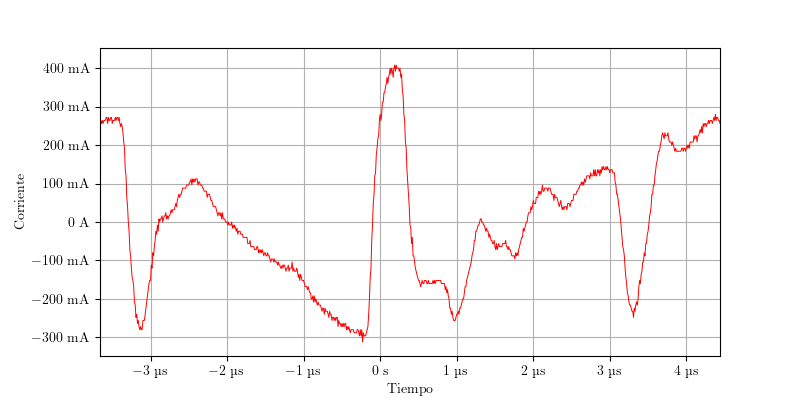
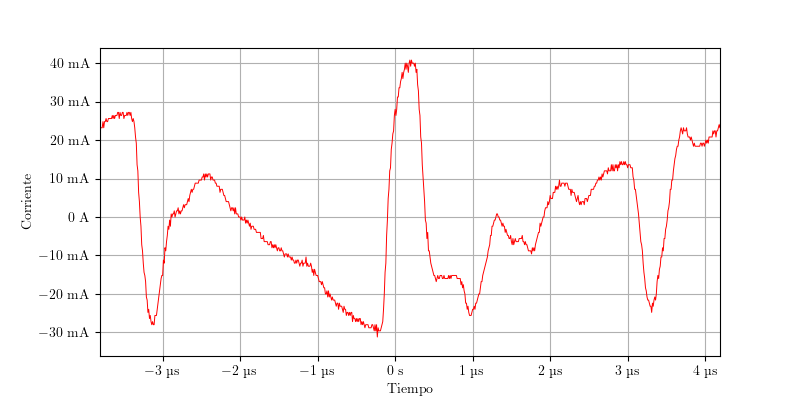
Co-authored-by: nicoelcapo98 <nicoelcapo98@users.noreply.github.com>

diff --git a/sections/simulaciones_prototipo.tex b/sections/simulaciones_prototipo.tex
@@ -9,33 +9,34 @@ Condiciones de simulación y ensayo:
     \item Resistencia de carga: $R=88.6\Omega$
 \end{itemize}
  
-% % 1) Tensión de salida en el colector del TL494
+% % 1) Tensión de salida en el colector del TL494 <<< DONE
 
 % Se verifica que el ciclo de trabajo es de $D=0.4$ y la frecuencia de conmutación es de aproximadamente $f=125kHz$. 
 % Su amplitud se reduce considerablemente de los $12V$ que poseía sin la carga del convertidor a $8V$ con el mismo acoplado. 
+% La forma de onda presenta una leve deformación respecto a la señal sin carga. 
 
-% % 2) Tensión en el capacitor Ct <<< N/A
+% % 2) Tensión en el capacitor Ct <<< N/A <<< DONE
 
 % Se observa una disminución en la frecuencia de la forma de onda a aproximadamente $f=112kHz$. 
 % El prototipo presenta una oscilación no deseada de $f_{osc}=1.25MHz$, 
 % la cual estará presente en muchas de las formas de onda que se analizarán a continuación. 
 
-% % 3) Tensión de salida de la etapa de ganancia de corriente
+% % 3) Tensión de salida de la etapa de ganancia de corriente <<< DONE
 
 % Dado que la etapa posee ganancia de tensión unitaria, su forma de onda es aproximadamente igual a la tensión de salida del TL494. 
 % Las oscilaciones fueron eliminadas mediante la red snubber. 
 
-% % 4) Tensión en el primario del transformador del driver
+% % 4) Tensión en el primario del transformador del driver <<< DONE
 
 % La amplitud y la forma de onda de la señal del prototipo coinciden respecto a la simulación. 
 % Se observan unos picos en los flancos de subida y de bajada. 
 
-% % 5) Tensión en el secundario del transformador del driver
+% % 5) Tensión en el secundario del transformador del driver <<< DONE
 
 % La amplitud y la forma de onda de la señal del prototipo coinciden respecto a la simulación. 
 % Se observa un pico en el flanco de bajada. 
 
-% % 6) Corriente en el primario del transformador del driver
+% % 6) Corriente en el primario del transformador del driver <<< DONE
 
 % La forma de onda del prototipo está deformada y posee levemente mayor amplitud. 
 
@@ -136,29 +137,30 @@ Condiciones de simulación y ensayo:
 \subsection{Generador de señal PWM}
 
 No se realizarán comparaciones ya que su circuito no fue simulado debido a la ausencia de un correcto modelo del TL494.
-El mismo fue implementado en una protoboard y sus formas de onda más importantes se comparan con las indicadas en la hoja de datos del fabricante.
+El mismo fue implementado primero en una protoboard y luego en un circuito impreso.
+Sus formas de onda más importantes se compararán con las indicadas en la hoja de datos del fabricante.
 
-En la figura \ref{fig:osc_pwm_vout_disconnected} se muestra la forma de onda de la tensión de salida de la etapa de ganancia de corriente.
-Esta debería ser una señal PWM con un período de $8\mu s$ y un ancho de pulso de aproximadamente 40\%
+En la figura \ref{fig:osc_pwm_vout_disconnected} se observa la tensión a la salida del TL494 medida del prototipo.
 
 \begin{figure}[H]
     \centering
     \includegraphics[width=0.8\textwidth]{images/capturas-osciloscopio/17-11-2022/1.png}
-    \caption{Tensión a la salida de la etapa de ganancia de corriente}
+    \caption{Tensión a la salida del TL494}
     \label{fig:osc_pwm_vout_disconnected}
 \end{figure}
 
-%Se puede observar una tensión de continua de aproximadamente $1.5V$ durante la etapa de apagado del PWM, la cual se debe al capacitor de desacople del circuito primario del driver.
-
-%Si se compara la figura \ref{fig:osc_pwm_vout_disconnected} con la \ref{fig:osc_pwm_vout_connected}, la cual muestra la misma forma de onda pero con la fuente de tensión de 36V conectada, se puede observar que la forma de onda es similar, pero se presenta una oscilación de alta frecuencia durante el ciclo de apagado de la señal PWM. Esta oscilación es tratada en la sección \ref{subsec:oscilaciones}.
-Se puede observar que la señal cumple con los requisitos de frecuencia y ancho de pulso.
+% Se verifica que el ciclo de trabajo es de $D=0.4$ y la frecuencia de conmutación es de aproximadamente $f=125kHz$. 
+% Su amplitud se reduce considerablemente de los $12V$ que poseía sin la carga del convertidor a $8V$ con el mismo acoplado. 
+% La forma de onda presenta una leve deformación respecto a la señal sin carga. <<< Comparando con otras formas de onda, esta está casi identica
+Se puede observar que la señal cumple con los requisitos de frecuencia ($f=125kHz$) y ancho de pulso ($D=0.4$).
+La amplitud de la señal es de $8V$, lo cual es menor a la señal sin carga ($12V$).
 Durante la implementación se presentaron oscilaciones de alta frecuencia durante el ciclo de apagado de la señal PWM, las cuales son tratadas en la sección \ref{subsec:oscilaciones}.
 En la figura \ref{fig:sim:osc_pwm_vout} se muestra la misma forma de onda simulada en LTspice.
 
 \begin{figure}[H]
     \centering
     \includegraphics[width=\textwidth]{images/sim/3.pdf}
-    \caption{Simulación de la tensión a la salida de la etapa de ganancia de corriente}
+    \caption{Simulación de la tensión a la salida del TL494}
     \label{fig:sim:osc_pwm_vout}
 \end{figure}
 
@@ -179,6 +181,10 @@ En las figuras \ref{fig:ct_v} y \ref{fig:dtc_v} se muestran las tensiones en el 
     \caption{Tensión a la salida del pin DTC del TL494} %COMPLETAR
     \label{fig:dtc_v}
 \end{figure}
+
+Se observa una disminución en la frecuencia de la forma de onda a aproximadamente $f=112kHz$. 
+En esta señal se observa mejor la oscilación no deseada de $f_{osc}=1.25MHz$, 
+la cual estará presente en muchas de las formas de onda que se analizarán a continuación. 
 
 % 1) Señal PWM
 
@@ -217,6 +223,28 @@ En las figuras \ref{fig:ct_v} y \ref{fig:dtc_v} se muestran las tensiones en el 
 % \end{figure}
 
 % Puede observarse que las oscilaciones aumentan. %WHAT?
+
+En la figura \ref{fig:osc_pwm_vout_disconnected} se muestra la forma de onda de la tensión de salida de la etapa de ganancia de corriente.
+Esta debería ser una señal PWM con un período de $8\mu s$ y un ancho de pulso de aproximadamente 40\%.
+
+% Dado que la etapa posee ganancia de tensión unitaria, su forma de onda es aproximadamente igual a la tensión de salida del TL494. 
+% Las oscilaciones fueron eliminadas mediante la red snubber. 
+
+\begin{figure}[H]
+    \centering
+    \includegraphics[width=0.8\textwidth]{images/capturas-osciloscopio/17-11-2022/3.png}
+    \caption{Tensión a la salida de la etapa de ganancia de corriente}
+    \label{fig:osc_pwm_vout_disconnected}
+\end{figure}
+
+\begin{figure}[H]
+    \centering
+    \includegraphics[width=\textwidth]{images/sim/3.pdf}
+    \caption{Simulación de la tensión a la salida de la etapa de ganancia de corriente}
+    \label{fig:sim:osc_pwm_vout}
+\end{figure}
+
+Se observa una mejora considerable en la forma de onda de la señal, incluso dando mejores resultados que el simulador. %Porque estamos re masa.
 
 La función más importante de esta etapa es la de mejorar la forma de onda de la señal PWM, que al comparar las figuras \ref{fig:osc_pwm_vout_disconnected} y \ref{fig:pwm_vout_sin_bjt} se puede observar que se ha mejorado considerablemente.
 
@@ -292,6 +320,9 @@ A continuación se presentan formas de ondas variadas del driver, comparándolas
     \label{fig:sim:4}
 \end{figure}
 
+La amplitud y la forma de onda de la señal del prototipo coinciden respecto a la simulación. 
+Se observan unos picos en los flancos de subida y de bajada. 
+
 \begin{figure}[H]
     \centering
     \includegraphics[width=0.9\textwidth]{images/capturas-osciloscopio/17-11-2022/9.png}
@@ -305,6 +336,44 @@ A continuación se presentan formas de ondas variadas del driver, comparándolas
     \caption{Simulación de la tensión en el secundario del transformador del driver}
     \label{fig:sim:5}
 \end{figure}
+
+Para el caso del secundario, las formas de onda también coinciden. 
+Se observa un pico solo en el flanco de bajada.
+
+En las figuras \ref{fig:osc:11} y \ref{fig:sim:6} se muestran la forma de onda de la corriente por el primario del transformador del driver junto con su simulación.
+
+\begin{figure}[H]
+    \centering
+    \includegraphics[width=\textwidth]{images/capturas-osciloscopio/17-11-2022/11.png}
+    \caption{Corriente por el primario del transformador del driver}
+    \label{fig:osc:11}
+\end{figure}
+
+\begin{figure}[H]
+    \centering
+    \includegraphics[width=\textwidth]{images/sim/6.pdf}
+    \caption{Simulación de la corriente por el primario del transformador del driver}
+    \label{fig:sim:6}
+\end{figure}
+
+La forma de onda del prototipo presenta una deformación y posee levemente mayor amplitud. 
+
+\begin{figure}[H]
+    \centering
+    \includegraphics[width=\textwidth]{images/capturas-osciloscopio/17-11-2022/13.png}
+    \caption{Corriente por la resistencia entre \textit{gate} y \textit{source} del MOSFET de lado alto}
+    \label{fig:osc:13}
+\end{figure}
+
+\begin{figure}[H]
+    \centering
+    \includegraphics[width=\textwidth]{images/sim/7.pdf}
+    \caption{Simulación de la corriente por la resistencia $R_{gs}$}
+    \label{fig:sim:7}
+\end{figure}
+
+La amplitud y la forma de onda de la señal del prototipo coinciden respecto a la simulación. 
+Presenta la oscilación de $f_{osc}=1.25MHz$. 
 
 % 2) Tensión Gate del MOSFET high side % Sería vout del driver?
 % DONE

diff --git a/sections/bitacora_publica.tex b/sections/bitacora_publica.tex
@@ -10,3 +10,46 @@ La amplitud de la forma de onda PWM disminuye al aumentar el ciclo de trabajo co
 Dado que la carga que genera el convertidor sobre el TL494 es muy alta, sin una etapa de ganancia de corriente, la forma de onda PWM 
 se distorsionaba y disminuía notablemente su amplitud, lo que causaba que los MOSFETs no se saturaran y aumentaran demasiado su temperatura.
 Los resultados obtenidos con la inclusión de esta etapa fueron una mejora en la forma de onda de la señal PWM y un incremento notorio en su amplitud.
+
+Las oscilaciones de alta frecuencia (superior a 125kHz) observadas en las formas de onda se pueden deber a cualquier tanque LC. 
+
+Se evidenció un problema con la tierra de la PCB ya que al realizar las mediciones de tensión, la fuente regulable de 36V eleva notablemente su corriente entregada al circuito 
+cuando se conecta la tierra de la punta del osciloscopio en ciertos puntos de la placa. 
+Estas mediciones fueron tomadas estableciendo un correcto límite de corriente en la fuente. 
+Además, en otros puntos como el transformador de potencia disminuye la tensión entregada por la fuente regulable de 12V. 
+
+Al utilizar resistencias de $1\Omega$ y potencia nominal $2Watts$ para medir corrientes en el circuito, 
+se detectaron oscilaciones indeseadas en sus formas de onda con una frecuencia de $f_{osc}=1.1MHz$. 
+En consecuencia, se quitaron dichas resistencias y se soldaron cables con un largo tal que se pueda medir 
+la corriente a través de los mismos utilizando puntas de corriente para el osciloscopio TEKTRONIX modelo P6021. 
+Pueden variar su sensibilidad seleccionando 2mA/mV o 10mA/mV y están conformadas por un transformador de corriente.
+En consecuencia, sólo miden la componente alterna de la señal y las formas de onda que presentan una componente continua deben ajustarse.
+El cable que se introduce es el primario, por lo que consta de una única vuelta, y el secundario está adentro de la punta. 
+Al medir corriente con las mismas no se detectaron las oscilaciones,
+con lo cual se concluye que a la frecuencia de trabajo las resistencias presentan una alta componente inductiva que genera las oscilaciones indeseadas. 
+Además, al quitar las resistencias se incrementó levemente la tensión de salida y la eficiencia. 
+
+La mayor diferencia del prototipo implementado respecto a las simulaciones se dio en la tensión de salida. 
+Se varió la resistencia de carga conectada al convertidor y se midieron la tensión y corriente de entrada y de salida para calcular la eficiencia del circuito.
+
+\begin{table}[H]
+    \centering
+    \begin{tabular}{lllllll}
+        \hline
+        \multicolumn{1}{c}{$R[\Omega]$} & \multicolumn{1}{c}{$I_i[A]$} & \multicolumn{1}{c}{$V_o[V]$} & \multicolumn{1}{c}{$I_o[A]$} & \multicolumn{1}{c}{$P_i[W]$} & \multicolumn{1}{c}{$P_o[W]$} & \multicolumn{1}{c}{$\eta[\%]$} \\ \hline
+        12.6                            & 0.23                         & 5.77                         & 0.47                         & 8.28                         & 2.71                         & 32.7                           \\
+        18                              & 0.23                         & 7                            & 0.4                          & 8.28                         & 2.8                          & 33.8                           \\
+        24.3                            & 0.23                         & 8.3                          & 0.35                         & 8.28                         & 2.91                         & 35.1                           \\
+        30.6                            & 0.23                         & 9.13                         & 0.3                          & 8.28                         & 2.74                         & 33.1                           \\
+        40                              & 0.2                          & 10.2                         & 0.25                         & 7.2                          & 2.7                          & 37.5                           \\
+        58                              & 0.18                         & 11.6                         & 0.2                          & 6.48                         & 2.32                         & 35.8                           \\
+        80.7                            & 0.16                         & 12.4                         & 0.15                         & 5.76                         & 1.86                         & 32.3                           \\
+        88.5                            & 0.16                         & 12.6                         & 0.14                         & 5.76                         & 1.76                         & 30.6                           \\ \hline
+    \end{tabular}
+    \caption{Resultados de las mediciones realizadas con el convertidor}
+    \label{tab:mediciones}
+\end{table}
+
+Se evidencia como la tensión de salida varía con la carga conectada y, en consecuencia, la tensión de salida deseada de $V_{o}=12.6V$ sólo se logra para una resistencia de $R=88.5\Omega$.
+Respecto a las simulaciones, la variación de carga si bien modifica levemente la tensión de salida, no disminuye notablemente su valor y presenta una corriente de salida mucho mayor especialmente en las resistencias de carga más bajas.
+

diff --git a/sections/bitacora.tex b/sections/bitacora.tex
@@ -205,18 +205,16 @@ Número de vueltas del secundario: N2=40
 
 Tabla:
  
-%INVENTAR VALORES QUE FALTAN
-
 \begin{table}[]
     \begin{tabular}{cccc}
     \hline
     $R[\Omega]$ & $I_i[A]$ & $V_o[V]$ & $I_o[A]$ \\ \hline
     12.6        & 0.23     & 5.77     & 0.47     \\
-    18          & 0.25     & 7        & 0.4      \\
+    18          & 0.23     & 7        & 0.4      \\
     24.3        & 0.23     & 8.3      & 0.35     \\
     30.6        & 0.23     & 9.13     & 0.3      \\
-    40          &          & 10.2     & 0.25     \\
-    58          &          & 11.6     & 0.2      \\
+    40          & 0.2      & 10.2     & 0.25     \\
+    58          & 0.18     & 11.6     & 0.2      \\
     80.7        & 0.16     & 12.4     & 0.15     \\
     88.5        & 0.16     & 12.6     & 0.14     \\
     165         & 0.16     & 14.27    & 0.09     \\ \hline

diff --git a/sections/diseño.tex b/sections/diseño.tex
@@ -336,9 +336,9 @@ $$ N=\sqrt{\frac{L\times l_0}{A_e\times u_0}}=34\ vueltas $$
 
 \item{Construcción y verificación}
 
-Se bobina el inductor y se mide la inductancia a partir de la constante de tiempo en un circuito RL con una forma de onda cuadrada a la entrada mediante un generador de funciones. 
+Se bobina el inductor y se mide la inductancia en la frecuencia de interés. Mediante un generador de funciones se excita un circuito RL serie con una forma de onda rectangular en su entrada de $f=125kHz$ y $1.5V$ de amplitud.  
 En la figura \ref{fig:osc-inductor-ts} se observa la medición realizada mediante una resistencia de $200\Omega$ con un tiempo de subida de $2.34\mu s$. 
-La inductancia resulta:
+A partir de la constante de tiempo del circuito, la inductancia resulta:
 
 $$ L=R\times\tau=468\mu H $$ 
 

diff --git a/scripts/csv_to_image.py b/scripts/csv_to_image.py
@@ -31,9 +31,9 @@ plt.rc('text', usetex=True)
 plt.rc('font', family='serif')
 fig,ax = plt.subplots(nrows=1, ncols=1, figsize=(8, 4))
 ax.xaxis.set_major_formatter(EngFormatter(unit='s'))
-ax.yaxis.set_major_formatter(EngFormatter(unit='V'))
+ax.yaxis.set_major_formatter(EngFormatter(unit='A'))
 ax.set_xlabel('Tiempo')
-ax.set_ylabel('Tensión')
+ax.set_ylabel('Corriente')
 #enable grid
 ax.grid(True)
 #ax.set_title(sys.argv[3])
@@ -41,9 +41,9 @@ ax.grid(True)
 if len(sys.argv) == 4:
     ax.set_xlim(float(sys.argv[2])-260e-9, float(sys.argv[3])-260e-9)
 # Divide y values by 10.8
-#y = [i * 0.2 for i in y]
+y = [i * 0.0001 for i in y]
 # Inverti y values
-y = [-i for i in y]
+#y = [-i for i in y]
 ax.plot(x,y,color='red', linewidth=0.7)
 cursor = Cursor(ax, useblit=True, color='red', linewidth=2)
 plt.show()

diff --git a/sections/conclusiones.tex b/sections/conclusiones.tex
@@ -9,6 +9,8 @@
 
 % Completar
 
+Se podría haber implementado el transformador del driver con un núcleo toroidal. 
+
 Quedó pendiente por implementar el rectificador a la entrada del conversor y el circuito de control.
 
 Las oscilaciones de alta frecuencia (superior a 125kHz) observadas en las formas de onda se pueden deber a cualquier tanque LC. 
